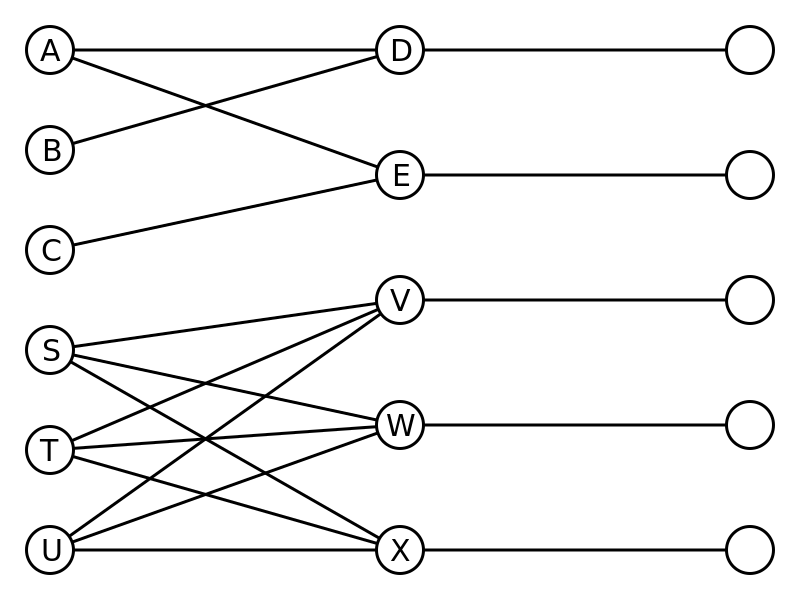
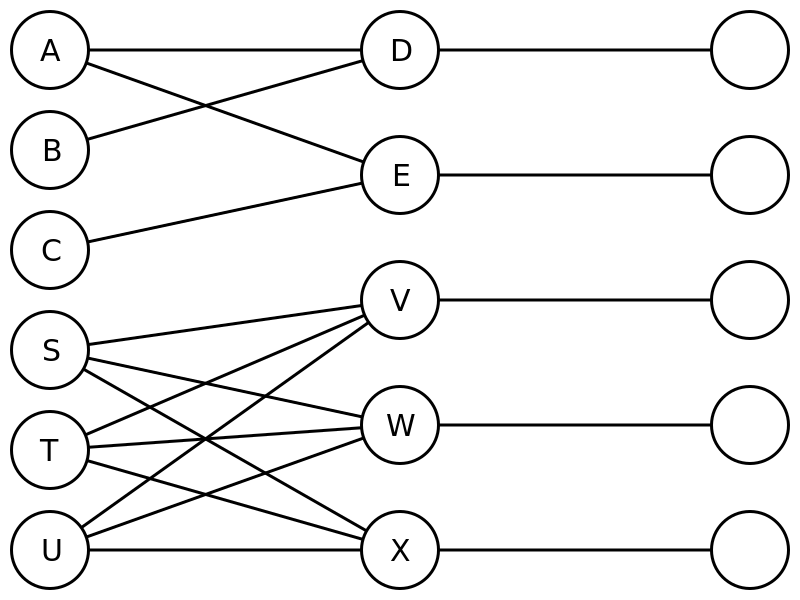
Update report figure for sums non indep proof

diff --git a/truthdiscovery/examples/report_figures.py b/truthdiscovery/examples/report_figures.py
@@ -5,7 +5,14 @@ import inspect
 import os
 import sys
 
-from truthdiscovery import Dataset, GraphRenderer, Sums, PlainColourScheme
+from truthdiscovery import (
+    ConvergenceIterator,
+    Dataset,
+    DistanceMeasures,
+    GraphRenderer,
+    PlainColourScheme,
+    Sums
+)
 
 
 class ReportRenderer(GraphRenderer):
@@ -48,6 +55,29 @@ class ExampleFigureCreator:
             ("C", "obj2", "E")
         ))
         renderer = ReportRenderer(node_size=0.5, font_size=30)
+        renderer.draw(dataset, outfile)
+
+    @example
+    def sums_non_independence(self, outfile):
+        dataset = Dataset((
+            ("A", "obj1", "D"),
+            ("A", "obj2", "E"),
+            ("B", "obj1", "D"),
+            ("C", "obj2", "E"),
+
+            ("S", "obj3", "V"),
+            ("S", "obj4", "W"),
+            ("S", "obj5", "X"),
+
+            ("T", "obj3", "V"),
+            ("T", "obj4", "W"),
+            ("T", "obj5", "X"),
+
+            ("U", "obj3", "V"),
+            ("U", "obj4", "W"),
+            ("U", "obj5", "X"),
+        ))
+        renderer = ReportRenderer(node_size=0.8, font_size=30)
         renderer.draw(dataset, outfile)
 
 
